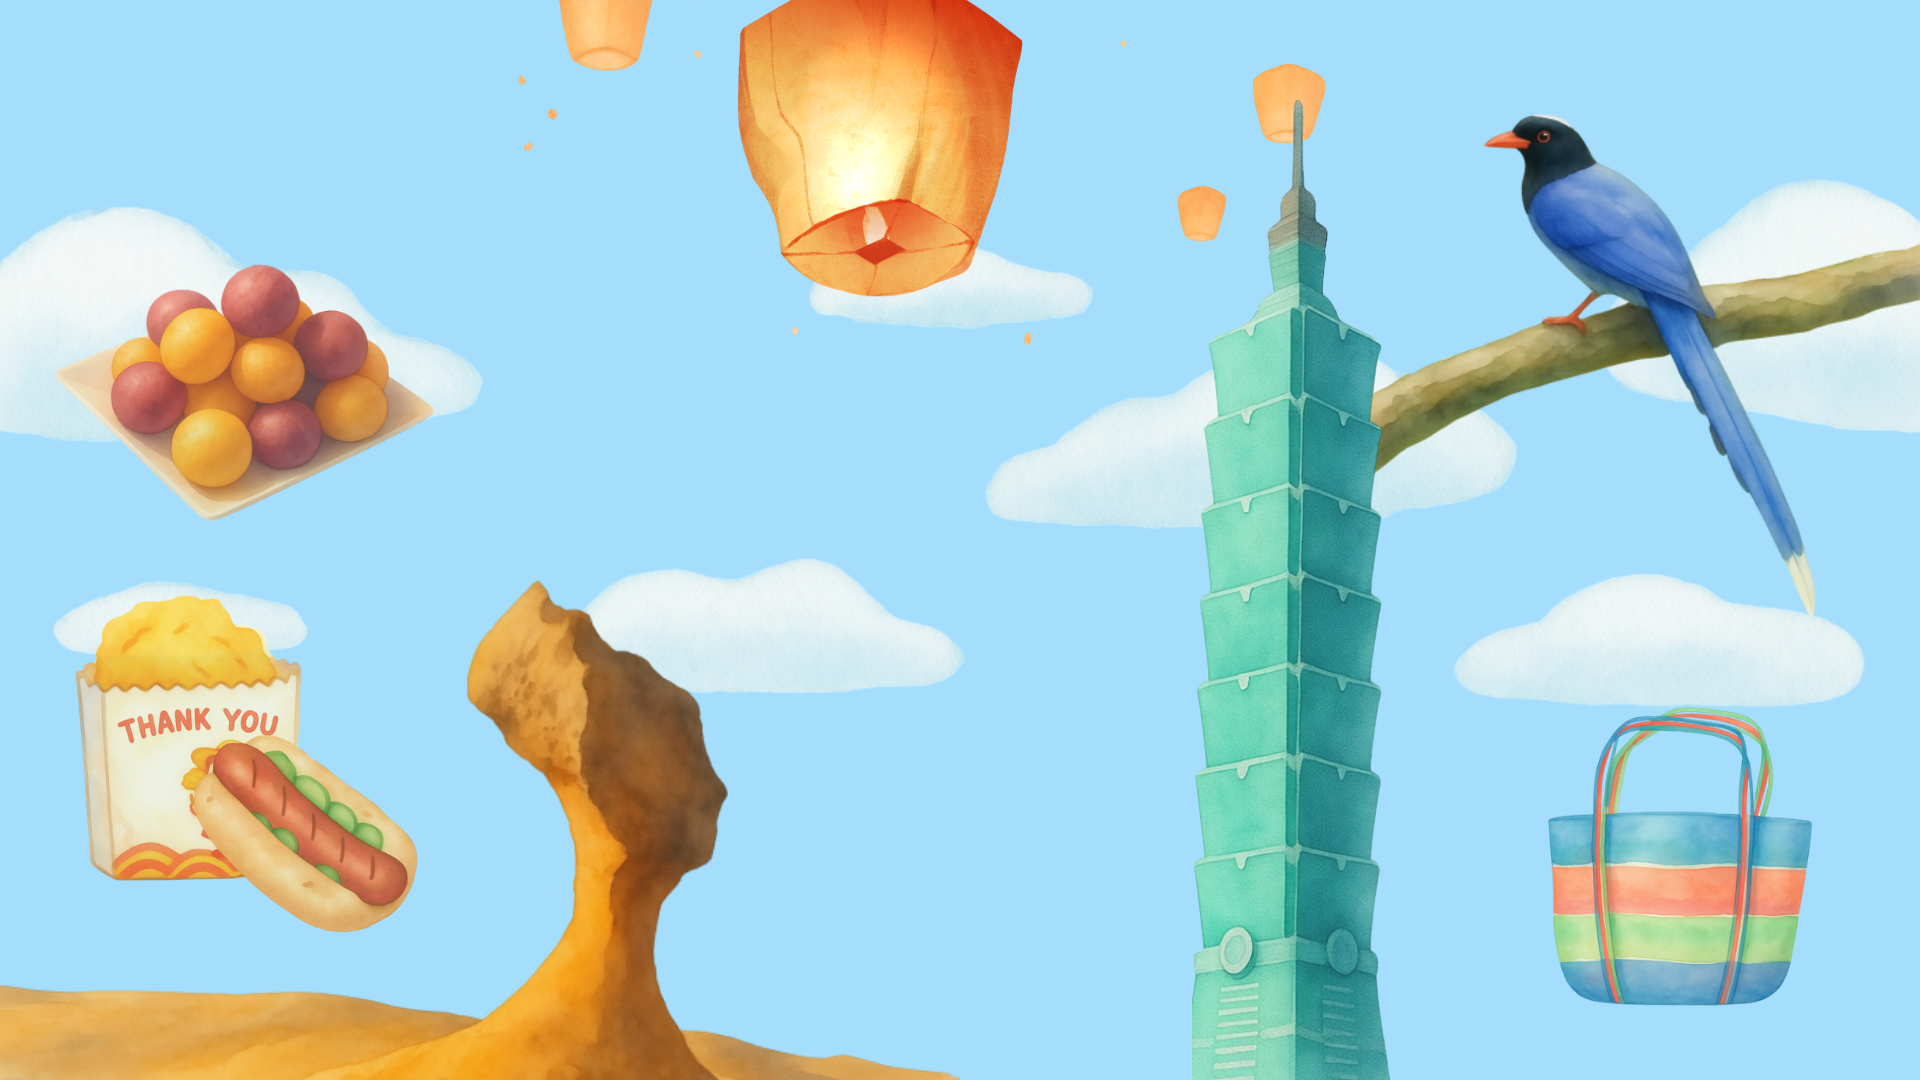
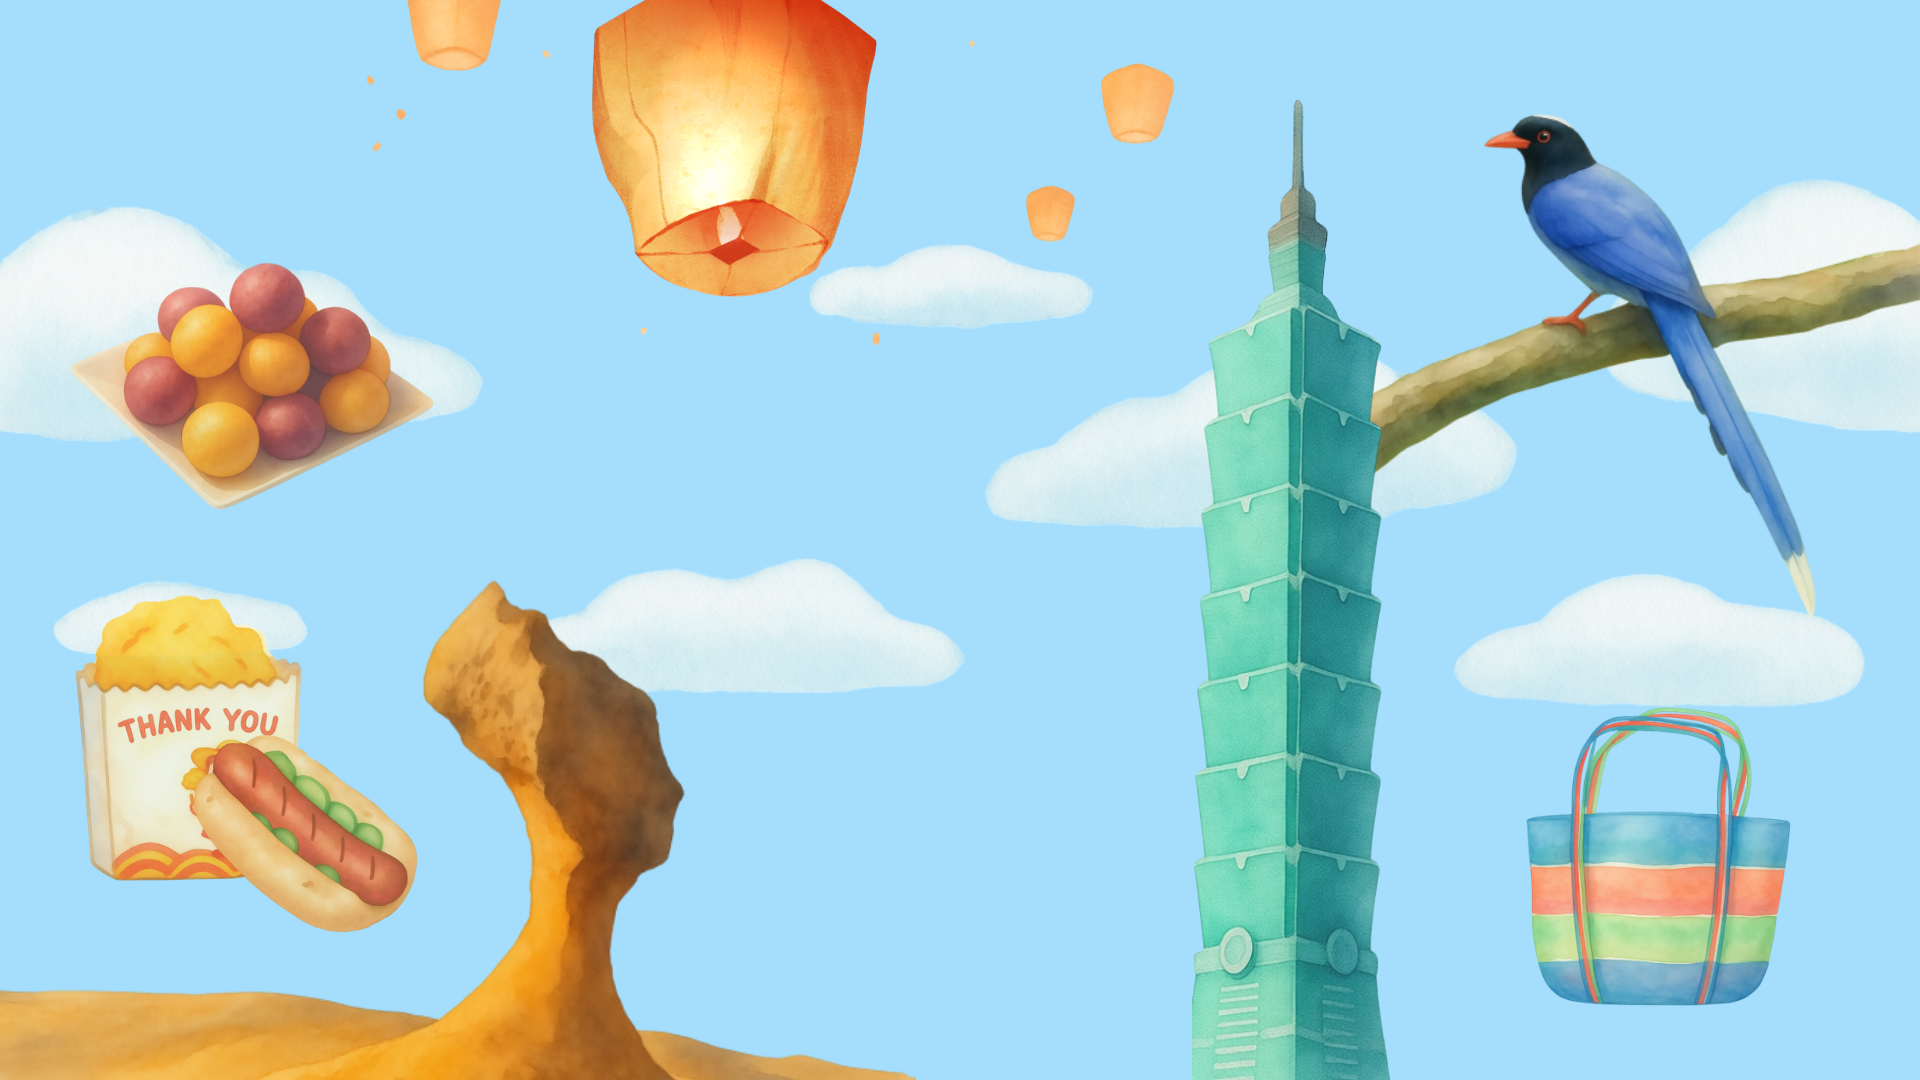
greeting with Taiwanese

diff --git a/app/page.tsx b/app/page.tsx
@@ -79,32 +79,32 @@ export default function Home() {
               className="flex flex-col items-center"
             >
               {/* 主問候 */}
-              <div className="flex flex-col items-center" style={{ lineHeight: 1, marginBottom: "12px" }}>
+              <div className="flex flex-col items-center" style={{ marginBottom: "20px" }}>
                 <span
                   className="font-black"
-                  style={{ fontSize: "clamp(64px, 14vw, 120px)", color: "#4a2010", textShadow: "0 2px 20px rgba(255,255,255,0.3)", lineHeight: 1 }}
+                  style={{ fontSize: "clamp(64px, 12vw, 110px)", color: "#4a2010", textShadow: "0 2px 20px rgba(255,255,255,0.3)", lineHeight: 1 }}
                 >
                   {greeting?.zh}
                 </span>
                 <span
-                  className="font-medium tracking-widest"
-                  style={{ fontSize: "clamp(12px, 1.8vw, 18px)", color: "#6B4423", opacity: 0.7, letterSpacing: "0.18em", marginTop: "2px" }}
+                  className="font-medium"
+                  style={{ fontSize: "clamp(12px, 1.6vw, 17px)", color: "#6B4423", opacity: 0.7, letterSpacing: "0.12em", marginTop: "10px" }}
                 >
                   {greeting?.tailo}
                 </span>
               </div>
 
               {/* 副問候 */}
-              <div className="flex flex-col items-center" style={{ lineHeight: 1 }}>
+              <div className="flex flex-col items-center">
                 <span
-                  className="font-bold"
-                  style={{ fontSize: "clamp(22px, 3.5vw, 38px)", color: "#4a2010", textShadow: "0 1px 12px rgba(255,255,255,0.3)", lineHeight: 1 }}
+                  className="font-black"
+                  style={{ fontSize: "clamp(64px, 12vw, 110px)", color: "#4a2010", textShadow: "0 2px 20px rgba(255,255,255,0.3)", lineHeight: 1 }}
                 >
                   {greeting?.sub}
                 </span>
                 <span
-                  className="font-medium tracking-widest"
-                  style={{ fontSize: "clamp(10px, 1.2vw, 14px)", color: "#6B4423", opacity: 0.7, letterSpacing: "0.18em", marginTop: "2px" }}
+                  className="font-medium"
+                  style={{ fontSize: "clamp(12px, 1.6vw, 17px)", color: "#6B4423", opacity: 0.7, letterSpacing: "0.12em", marginTop: "10px" }}
                 >
                   {greeting?.subTailo}
                 </span>